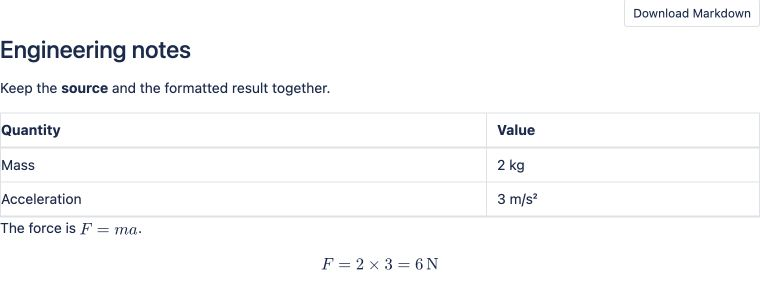
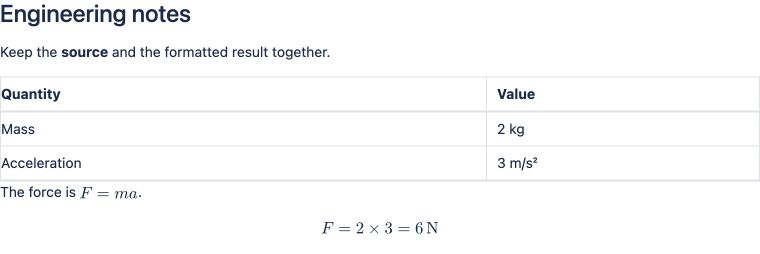
Document Confluence export after removing the macro download

diff --git a/src/content/docs/markdown/markdown-for-confluence/confluence-cloud/compatibility-and-exports.md b/src/content/docs/markdown/markdown-for-confluence/confluence-cloud/compatibility-and-exports.md
@@ -1,6 +1,6 @@
 ---
 title: "Compatibility and exports"
-description: "Understand Forge Markdown rendering, image handling, source download and Confluence export boundaries."
+description: "Understand Markdown rendering, image handling and Confluence exports."
 ---
 
 Use this reference to choose how to keep source or share rendered content from
@@ -28,20 +28,11 @@ External images may not load for every reader or exporter. Use hosts approved
 by your organization; [Privacy and data handling](../privacy-policy/) explains
 the resulting external requests.
 
-## Download Markdown source
+## Keep a copy of the Markdown source
 
-On a rendered, licensed macro, select **Download Markdown** and save the file.
-The browser may ask where to save it; its suggested filename is `markdown.md`.
-This download contains that macro's saved source, including LaTeX. It does not
-include other macros, the whole Confluence page, remote image files, or an
-unfinished draft in another editor.
-
-An empty macro has no rendered download control. To keep an empty source or
-inspect a failed render, open the editor and copy the available source.
-Keep downloaded files under your organization's normal retention controls.
-
-Confluence's whole-page Markdown conversion can omit macro contents. Use the
-macro's source-download action when the Markdown itself is what you need to keep.
+Open the macro editor and copy the source to a local text file. This preserves
+the Markdown and LaTeX you see in the editor. Confluence's **Export to Markdown**
+action converts the page and can omit the contents of the macro.
 
 ## PDF, Word and page history
 

diff --git a/src/content/docs/markdown/markdown-for-confluence/confluence-cloud/support.md b/src/content/docs/markdown/markdown-for-confluence/confluence-cloud/support.md
@@ -10,8 +10,8 @@ which editor you have.
 ## The macro says an active license is required
 
 Ask your Confluence administrator to check the app's evaluation or subscription
-in Atlassian's app management. An inactive license blocks rendering, source
-download and editing. Do not uninstall the app as a license troubleshooting step.
+in Atlassian's app management. An inactive license blocks rendering and
+editing. Do not uninstall the app as a license troubleshooting step.
 Your page content and the billing entitlement are different things.
 
 ## I saved the macro but readers see the old content
@@ -50,9 +50,9 @@ app license. The error message can report that a browser draft was retained
 when storage was available; do not assume it exists on another device.
 Escape in the source editor is a save-and-close shortcut, not a discard command.
 
-## A download or export is incomplete
+## A page export is incomplete
 
-For Markdown source, use **Download Markdown** on the intended rendered macro.
+To keep the Markdown source, open the macro editor and copy it to a text file.
 For PDF/Word, inspect the actual downloaded file and record the viewer used.
 A whole-page Markdown conversion can omit macro content. The current Forge
 candidate's native PDF/Word layout gate remains open; see

diff --git a/src/content/docs/markdown/markdown-for-confluence/confluence-cloud/overview.md b/src/content/docs/markdown/markdown-for-confluence/confluence-cloud/overview.md
@@ -4,7 +4,7 @@ description: "Write technical notes, tables and mathematical expressions as Mark
 ---
 
 Write Markdown and LaTeX in a Confluence macro, review the formatted result,
-and keep the source available for later editing or download.
+and keep the source available for later editing.
 
 **Start here:** [Create your first Markdown macro](../usage/). Write source,
 select **Save and close**, then publish or update the Confluence page.
@@ -28,7 +28,7 @@ Select the image to open it at full size.*
 | --- | --- |
 | Write or edit a macro, use preview, or recover unfinished editing | [Write and edit Markdown](../usage/) |
 | Check an existing Connect macro after a Forge update | [Move from the Connect editor](../migration/) |
-| Download the source or understand rendering and export limits | [Compatibility and exports](../compatibility-and-exports/) |
+| Copy the source or check rendering and export limits | [Compatibility and exports](../compatibility-and-exports/) |
 | Understand browser drafts, images and data handling | [Privacy and data handling](../privacy-policy/) |
 | Resolve a license, preview or save problem | [Help and troubleshooting](../support/) |
 

diff --git a/src/content/docs/markdown/markdown-for-confluence/confluence-cloud/usage.md b/src/content/docs/markdown/markdown-for-confluence/confluence-cloud/usage.md
@@ -76,7 +76,7 @@ images, sanitization and output differences.
 3. Reload the published page. Check the table, the inline `F = ma`, and the
    displayed `F = 2 × 3 = 6 N`.
 
-![The saved engineering-note macro with Download Markdown, a table and two rendered formulas](/assets/markdown/release-2/published-example.png)
+![The saved engineering-note macro with a table and two rendered formulas](/assets/markdown/release-2/published-example.png)
 
 *The same synthetic example after publishing and reloading on the development
 site. This is the page result, rather than the editor preview.*
@@ -104,6 +104,6 @@ storage for sensitive content.
 
 ## Next steps
 
-- [Download source and check export compatibility](../compatibility-and-exports/).
+- [Copy source and check export compatibility](../compatibility-and-exports/).
 - [Validate existing content after a Connect update](../migration/).
 - [Resolve preview, license or save problems](../support/).

diff --git a/src/content/docs/markdown/markdown-for-confluence/confluence-cloud/migration.md b/src/content/docs/markdown/markdown-for-confluence/confluence-cloud/migration.md
@@ -15,9 +15,8 @@ macros as a migration step.
 
 1. Choose representative pages: ordinary Markdown, tables, inline and block
    mathematics, images, and pages with more than one macro.
-2. Record the visible result and keep a copy of each macro's source. If the old
-   editor has no source-download action, open it and copy the source to a local
-   text file without changing the page.
+2. Record the visible result. Open each macro in the Connect editor and copy
+   its source to a local text file without changing the page.
 3. Include a page with restrictions. Record which test users should be able to
    read and edit it; app installation does not override Confluence permissions.
 4. Retain the page's normal version history and your organization's backups.
